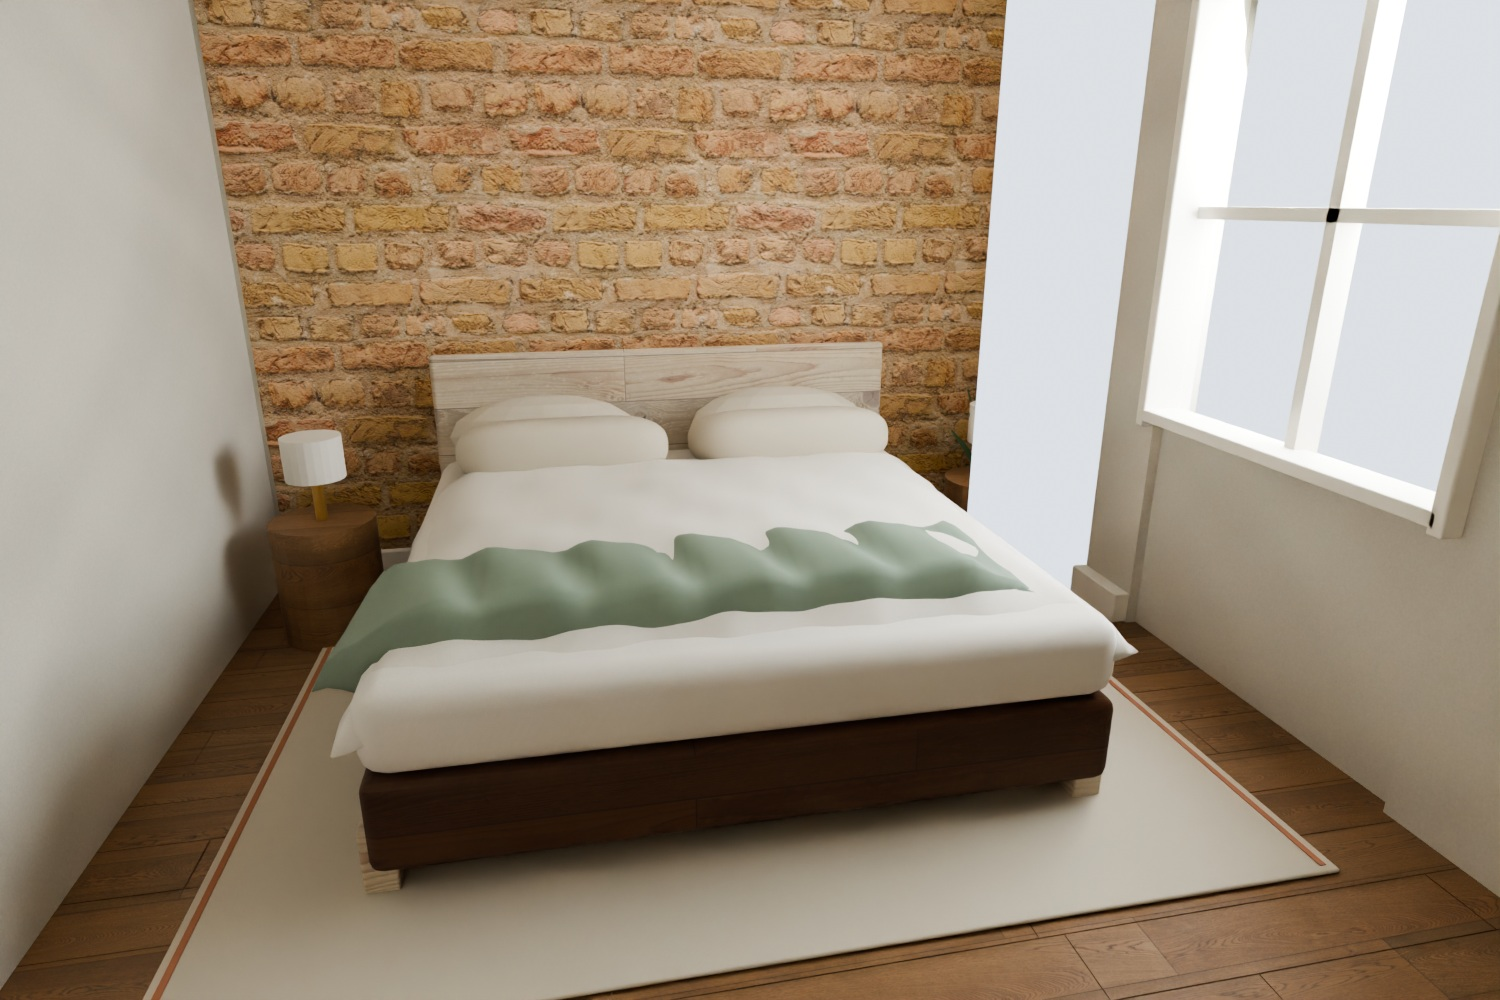
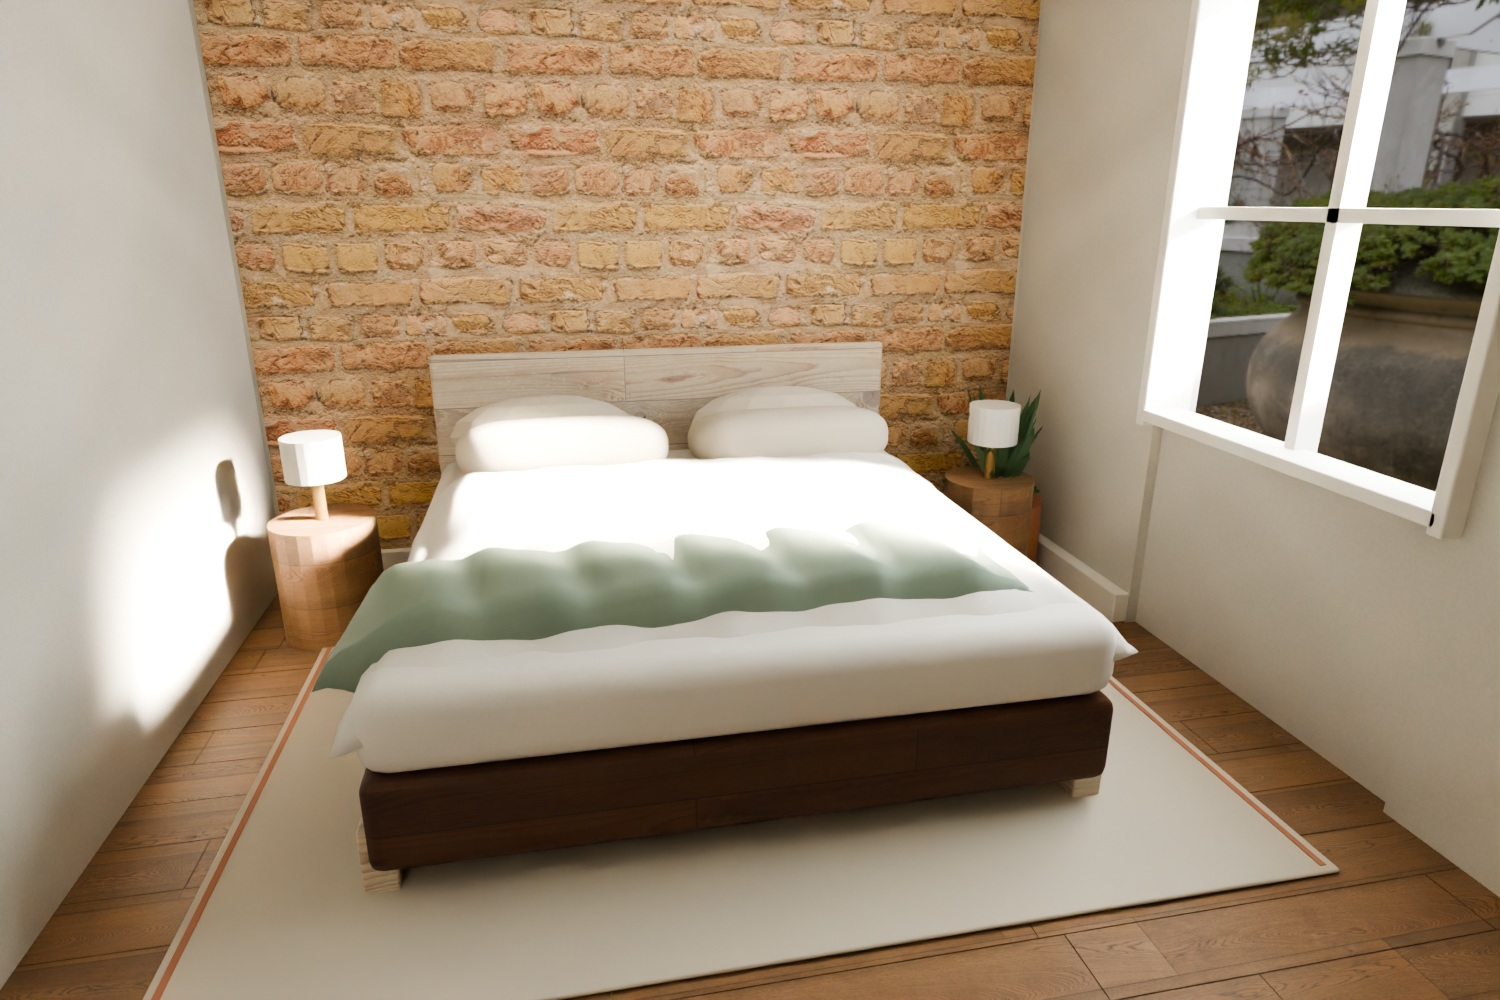
Offer regular double bed in rendered bedroom viewpoints

diff --git a/tour.js b/tour.js
@@ -9,18 +9,19 @@ scene.add(sphere);
 const files=window.tourFiles||{},asset=n=>files[n]||n;
 const rings=[],cache=new Map();let active='',request=0,yaw=0,pitch=-.20,awaiting=false;
 const alternateViews=new Set(['murphy','murphy-side','murphy-foot','hall','terrace','garden-seat','garden-path','passage']);
-let folded=false;
-function syncModel(){const f=$('modelFrame');if(f.contentWindow)f.contentWindow.postMessage({kind:'murphy-position',folded},'*')}
-function updateBedButton(id){const btn=$('fold');btn.hidden=!id.startsWith('murphy');btn.textContent=folded?'Open Murphy bed':'Close Murphy bed';btn.setAttribute('aria-pressed',String(folded))}
+let folded=false, regularDouble=false;
+function syncModel(){const f=$('modelFrame');if(f.contentWindow)f.contentWindow.postMessage({kind:'murphy-position',folded,regularDouble},'*')}
+function updateBedButton(id){const btn=$('fold');const inBedroom=id.startsWith('murphy');$('bedType').hidden=!inBedroom;$('bedType').value=regularDouble?'full':'murphy';btn.hidden=!inBedroom||regularDouble;btn.textContent=folded?'Open Murphy bed':'Close Murphy bed';btn.setAttribute('aria-pressed',String(folded))}
+$('bedType').onchange=async e=>{regularDouble=e.target.value==='full';folded=false;syncModel();await visit(active,true)};
 $('fold').onclick=async()=>{if(awaiting)return;folded=!folded;syncModel();await visit(active,true)};
-window.addEventListener('message',e=>{if(e.source!==$('modelFrame').contentWindow||e.data?.kind!=='model-bed-change')return;folded=e.data.folded===true;if(active)visit(active,true)});
+window.addEventListener('message',e=>{if(e.source!==$('modelFrame').contentWindow||e.data?.kind!=='model-bed-change')return;regularDouble=e.data.regularDouble===true;folded=!regularDouble&&e.data.folded===true;if(active)visit(active,true)});
 $('modelFrame').addEventListener('load',syncModel);
 const step=.020955,eye=1.60;
-const turns={"living:lounge": [145.0, 472.0], "living:entry": [328.2, 439.6], "living:kitchen": [346.0, 373.0], "living:windows": [200.8, 411.1], "living:dining": [220.0, 349.0], "living:sofa-end": [265.0, 439.0], "living:coat-closet": [401.0, 477.0], "lounge:living": [308.0, 419.0], "lounge:windows": [142.0, 473.0], "lounge:sofa-end": [263.1, 435.5], "entry:living": [354.0, 448.0], "entry:kitchen": [379.0, 407.0], "entry:hall": [581.0, 454.0], "entry:island": [465.0, 463.0], "entry:coat-closet": [401.0, 477.0], "entry:passage": [535.0, 443.0], "kitchen:entry": [429.3, 480.5], "kitchen:living": [308.0, 419.0], "kitchen:dining": [220.0, 349.0], "kitchen:island": [435.0, 448.7], "kitchen:sink-aisle": [411.0, 345.0], "hall:entry": [433.0, 479.0], "hall:bath": [581.0, 399.0], "hall:king": [632.0, 425.0], "hall:murphy": [595.0, 511.0], "hall:island": [465.0, 463.0], "hall:murphy-foot": [621.0, 498.0], "hall:vanity": [582.8, 383.6], "hall:passage": [535.0, 443.0], "hall:king-door": [650.3, 437.1], "bath:hall": [577.1, 400.8], "bath:vanity": [597.0, 351.0], "king:king-side": [779.0, 389.0], "king:hall": [641.1, 418.4], "king:terrace": [791.0, 456.0], "king:king-foot": [730.0, 430.0], "king:king-door": [657.1, 434.3], "king:garden-path": [817.0, 450.0], "king-side:king": [695.0, 481.0], "king-side:king-foot": [730.0, 430.0], "murphy:murphy-side": [768.0, 602.0], "murphy:hall": [599.0, 519.0], "murphy:murphy-foot": [710.0, 596.0], "murphy-side:murphy": [649.0, 605.0], "murphy-side:terrace": [791.0, 545.0], "murphy-side:murphy-foot": [710.0, 596.0], "murphy-side:garden-seat": [886.5, 541.5], "terrace:king": [810.5, 478.5], "terrace:murphy-side": [804.0, 545.0], "terrace:king-foot": [778.0, 503.2], "terrace:garden-seat": [900.0, 516.0], "terrace:garden-path": [867.0, 481.0], "windows:living": [308.0, 419.0], "windows:lounge": [218.0, 465.0], "windows:dining": [220.0, 349.0], "dining:living": [308.0, 419.0], "dining:windows": [76.0, 371.0], "dining:kitchen": [388.0, 370.0], "dining:sofa-end": [265.0, 439.0], "island:entry": [433.0, 479.0], "island:kitchen": [377.2, 378.9], "island:hall": [581.0, 454.0], "island:coat-closet": [401.0, 477.0], "king-foot:king": [695.0, 481.0], "king-foot:king-side": [779.0, 389.0], "king-foot:terrace": [784.1, 489.2], "king-foot:king-door": [651.0, 441.0], "murphy-foot:murphy": [649.0, 605.0], "murphy-foot:murphy-side": [768.0, 602.0], "murphy-foot:hall": [638.1, 511.0], "garden-seat:terrace": [836.0, 546.0], "garden-seat:murphy-side": [805.9, 588.0], "garden-seat:garden-path": [860.5, 487.2], "vanity:bath": [573.0, 359.0], "vanity:hall": [594.9, 390.8], "sofa-end:lounge": [218.0, 465.0], "sofa-end:living": [308.0, 419.0], "sofa-end:dining": [220.0, 349.0], "sink-aisle:kitchen": [388.0, 370.0], "sink-aisle:island": [427.7, 381.6], "coat-closet:entry": [433.0, 479.0], "coat-closet:living": [308.0, 419.0], "coat-closet:island": [465.0, 463.0], "passage:hall": [581.0, 454.0], "passage:entry": [433.0, 479.0], "king-door:king": [701.3, 467.8], "king-door:king-foot": [730.0, 430.0], "king-door:hall": [580.3, 450.1], "garden-path:garden-seat": [900.0, 516.0], "garden-path:terrace": [836.0, 546.0], "garden-path:king": [782.0, 449.0]};
+const turns={"living:lounge": [145.0, 472.0], "living:entry": [328.2, 439.6], "living:kitchen": [346.0, 373.0], "living:windows": [200.8, 411.1], "living:dining": [220.0, 349.0], "living:sofa-end": [265.0, 439.0], "living:coat-closet": [401.0, 477.0], "lounge:living": [308.0, 419.0], "lounge:windows": [142.0, 473.0], "lounge:sofa-end": [263.1, 435.5], "entry:living": [354.0, 448.0], "entry:kitchen": [379.0, 407.0], "entry:hall": [581.0, 454.0], "entry:island": [465.0, 463.0], "entry:coat-closet": [401.0, 477.0], "entry:passage": [535.0, 443.0], "kitchen:entry": [429.3, 480.5], "kitchen:living": [308.0, 419.0], "kitchen:dining": [220.0, 349.0], "kitchen:island": [435.0, 448.7], "kitchen:sink-aisle": [411.0, 345.0], "hall:entry": [433.0, 479.0], "hall:bath": [581.0, 399.0], "hall:king": [632.0, 425.0], "hall:murphy": [595.0, 511.0], "hall:island": [465.0, 463.0], "hall:murphy-foot": [621.0, 498.0], "hall:vanity": [582.8, 383.6], "hall:passage": [535.0, 443.0], "hall:king-door": [650.3, 437.1], "bath:hall": [577.1, 400.8], "bath:vanity": [597.0, 351.0], "king:king-side": [779.0, 389.0], "king:hall": [641.1, 418.4], "king:terrace": [791.0, 456.0], "king:king-foot": [730.0, 430.0], "king:king-door": [657.1, 434.3], "king:garden-path": [817.0, 450.0], "king-side:king": [695.0, 481.0], "king-side:king-foot": [730.0, 430.0], "murphy:murphy-side": [768.0, 602.0], "murphy:hall": [599.0, 519.0], "murphy:murphy-foot": [710.0, 596.0], "murphy-side:murphy": [649.0, 605.0], "murphy-side:terrace": [791.0, 545.0], "murphy-side:murphy-foot": [710.0, 596.0], "murphy-side:garden-seat": [886.5, 541.5], "terrace:king": [810.5, 478.5], "terrace:murphy-side": [804.0, 545.0], "terrace:king-foot": [778.0, 503.2], "terrace:garden-seat": [900.0, 516.0], "terrace:garden-path": [867.0, 481.0], "windows:living": [308.0, 419.0], "windows:lounge": [218.0, 465.0], "windows:dining": [212.0, 364.4], "dining:living": [308.0, 419.0], "dining:windows": [76.0, 371.0], "dining:kitchen": [388.0, 370.0], "dining:sofa-end": [265.0, 439.0], "island:entry": [433.0, 479.0], "island:kitchen": [377.2, 378.9], "island:hall": [581.0, 454.0], "island:coat-closet": [401.0, 477.0], "king-foot:king": [695.0, 481.0], "king-foot:king-side": [779.0, 389.0], "king-foot:terrace": [784.1, 489.2], "king-foot:king-door": [651.0, 441.0], "murphy-foot:murphy": [649.0, 605.0], "murphy-foot:murphy-side": [768.0, 602.0], "murphy-foot:hall": [638.1, 511.0], "garden-seat:terrace": [836.0, 546.0], "garden-seat:murphy-side": [805.9, 588.0], "garden-seat:garden-path": [860.5, 487.2], "vanity:bath": [573.0, 359.0], "vanity:hall": [594.9, 390.8], "sofa-end:lounge": [218.0, 465.0], "sofa-end:living": [308.0, 419.0], "sofa-end:dining": [220.0, 349.0], "sink-aisle:kitchen": [388.0, 370.0], "sink-aisle:island": [427.7, 381.6], "coat-closet:entry": [433.0, 479.0], "coat-closet:living": [308.0, 419.0], "coat-closet:island": [465.0, 463.0], "passage:hall": [581.0, 454.0], "passage:entry": [433.0, 479.0], "king-door:king": [701.3, 467.8], "king-door:king-foot": [730.0, 430.0], "king-door:hall": [580.3, 450.1], "garden-path:garden-seat": [900.0, 516.0], "garden-path:terrace": [836.0, 546.0], "garden-path:king": [782.0, 449.0]};
 function textureFor(id){if(!cache.has(id))cache.set(id,loader.loadAsync(asset('pan-'+id+'.jpg')).then(t=>{t.colorSpace=THREE.SRGBColorSpace;return t}).catch(e=>{cache.delete(id);throw e}));return cache.get(id)}
 async function visit(id,keepHeading=false){if(!points[id])return;stopGlide();const seq=++request;awaiting=true;$('instruction').textContent='Loading '+points[id].label+'…';
- try{const imageId=id+(folded&&alternateViews.has(id)?'-closed':'');const t=await textureFor(imageId);if(seq!==request)return;sphere.material.map=t;sphere.material.needsUpdate=true;active=id;awaiting=false;updateBedButton(id);for(const [k,v] of cache){if(cache.size<=4)break;if(k===imageId)continue;cache.delete(k);v.then(old=>{if(old!==sphere.material.map)old.dispose()}).catch(()=>{})}const p=points[id];if(!keepHeading){yaw=Math.atan2(p.aim[0]-p.pos[0],p.pos[1]-p.aim[1]);pitch=id.startsWith('murphy')?-.32:-.20}
- const clearance=id.startsWith('king')?' · About 28 in beside the mattress':id.startsWith('murphy')?(folded?' · Murphy bed up':' · About 44 in across the walkway'):'';$('place').textContent=p.label+clearance;history.replaceState(null,'','#'+id);$('rooms').value=id;$('instruction').textContent='Tap a floor circle to move · Drag to look around';
+ try{const imageId=id+(alternateViews.has(id)?(regularDouble?'-double':folded?'-closed':''):'');const t=await textureFor(imageId);if(seq!==request)return;sphere.material.map=t;sphere.material.needsUpdate=true;active=id;awaiting=false;updateBedButton(id);for(const [k,v] of cache){if(cache.size<=4)break;if(k===imageId)continue;cache.delete(k);v.then(old=>{if(old!==sphere.material.map)old.dispose()}).catch(()=>{})}const p=points[id];if(!keepHeading){yaw=Math.atan2(p.aim[0]-p.pos[0],p.pos[1]-p.aim[1]);pitch=id.startsWith('murphy')?-.32:-.20}
+ const clearance=id.startsWith('king')?' · About 28 in beside the mattress':id.startsWith('murphy')?(regularDouble?' · Double bed':folded?' · Murphy bed up':' · About 44 in across the walkway'):'';$('place').textContent=(regularDouble?p.label.replace('Murphy bedroom','Small bedroom').replace('Murphy bed','double bed'):p.label)+clearance;history.replaceState(null,'','#'+id);$('rooms').value=id;$('instruction').textContent='Tap a floor circle to move · Drag to look around';
  $('spots').replaceChildren();rings.length=0;for(const next of p.near){const pt=turns[id+':'+next]||points[next].pos,el=document.createElement('button');el.className='hotspot';el.setAttribute('aria-label',points[next].label);el.onclick=()=>visit(next,true);$('spots').append(el);rings.push([el,new THREE.Vector3((pt[0]-p.pos[0])*step,-eye+.02,(pt[1]-p.pos[1])*step)])}
  }catch(e){if(seq===request){awaiting=false;$('instruction').textContent='View unavailable. Choose another room.'}}}
 for(const [k,p] of Object.entries(points))$('rooms').add(new Option(p.label,k));$('rooms').onchange=e=>visit(e.target.value);
@@ -69,7 +70,7 @@ canvas.onpointerup=canvas.onpointercancel=canvas.onlostpointercapture=e=>{
 canvas.onwheel=e=>{e.preventDefault();zoom(cam.fov+e.deltaY*.045)};
 canvas.onkeydown=e=>{const k=e.key;if(k.startsWith('Arrow')){stopGlide();e.preventDefault();if(k==='ArrowLeft')yaw-=.12;if(k==='ArrowRight')yaw+=.12;if(k==='ArrowUp')pitch=Math.min(1.48,pitch+.10);if(k==='ArrowDown')pitch=Math.max(-1.48,pitch-.10)}};
 function showPhoto(){let v=$('shots').value;$('photo').src=asset(v+'-render.jpg');$('photo').alt=$('shots').selectedOptions[0].text+' eye-level Blender render'}
-$('photos').onclick=()=>{$('shots').value=active.startsWith('murphy')?(folded?'murphy-closed':'murphy'):active.startsWith('king')?'king':['garden-seat','terrace','garden-path'].includes(active)?'garden':['kitchen','island','sink-aisle'].includes(active)?'kitchen':['bath','vanity'].includes(active)?'bath':'living';showPhoto();$('gallery').showModal()};$('shots').onchange=showPhoto;
+$('photos').onclick=()=>{$('shots').value=active.startsWith('murphy')?(regularDouble?'double':folded?'murphy-closed':'murphy'):active.startsWith('king')?'king':['garden-seat','terrace','garden-path'].includes(active)?'garden':['kitchen','island','sink-aisle'].includes(active)?'kitchen':['bath','vanity'].includes(active)?'bath':'living';showPhoto();$('gallery').showModal()};$('shots').onchange=showPhoto;
 $('model').onclick=()=>{const f=$('modelFrame');if(!f.src&&!f.srcdoc){if(window.modelDocument)f.srcdoc=window.modelDocument;else f.src='model-view.html'}$('modelPanel').hidden=false};$('return').onclick=()=>{$('modelPanel').hidden=true;canvas.focus()};
 function resize(){cam.aspect=innerWidth/innerHeight;cam.updateProjectionMatrix();renderer.setSize(innerWidth,innerHeight)}onresize=resize;resize();
 const tmp=new THREE.Vector3();function draw(){requestAnimationFrame(draw);if(!$('modelPanel').hidden||$('gallery').open)return;advanceGlide(performance.now());cam.lookAt(Math.sin(yaw)*Math.cos(pitch),Math.sin(pitch),-Math.cos(yaw)*Math.cos(pitch));cam.updateMatrixWorld();

diff --git a/index.html b/index.html
@@ -1,3 +1,3 @@
 <!doctype html><html lang="en"><head><meta charset="utf-8"><meta name="viewport" content="width=device-width,initial-scale=1"><title>375 Clinton St · Apartment tour</title><style>
 *{box-sizing:border-box}body{margin:0;background:#282a25;color:#fff;font:14px -apple-system,BlinkMacSystemFont,"Helvetica Neue",sans-serif}#pano{position:fixed;inset:0;width:100%;height:100%;touch-action:none;cursor:grab}#pano:active{cursor:grabbing}header{position:fixed;top:0;left:0;width:100%;pointer-events:none;padding:22px 26px 45px;background:linear-gradient(#17181199,transparent)}h1{margin:0;font:normal clamp(27px,4vw,43px) Georgia,serif;letter-spacing:-.04em}header p{margin:4px 0}footer{position:fixed;bottom:max(18px,env(safe-area-inset-bottom));left:50%;transform:translateX(-50%);width:max-content;max-width:96vw;text-align:center}nav{background:#fcfaf4f2;color:#26372c;display:flex;align-items:center;gap:5px;padding:5px;border-radius:12px;box-shadow:0 3px 15px #17191326}button,select{font:inherit;border:0;border-radius:8px;padding:11px;color:inherit;background:transparent;cursor:pointer}button:focus-visible,select:focus-visible{outline:2px solid #c49456}nav button:hover,nav select:hover{background:#dce0d6}#instruction{background:#20261ec9;color:white;padding:5px 11px;border-radius:20px;display:inline-block;font-size:12px;margin:6px}.hotspot{position:fixed;left:0;top:0;transform:translate(-50%,-50%);width:52px;height:40px;display:grid;place-items:center;background:transparent;padding:0}.hotspot:before{content:'';display:block;width:33px;height:15px;border:3px solid white;box-shadow:0 0 0 1px #3336,0 2px 5px #0007,inset 0 0 5px #0005;background:#fff4;border-radius:50%}.hotspot:hover:after,.hotspot:focus-visible:after{content:attr(aria-label);position:absolute;bottom:36px;background:#263529ee;color:#fff;font-size:12px;white-space:nowrap;border-radius:5px;padding:5px 7px}dialog{background:#f7f4eb;color:#243128;border:none;padding:10px;border-radius:12px;max-width:96vw}dialog::backdrop{background:#161c18a8}dialog img{display:block;max-width:91vw;max-height:73vh;border-radius:5px}dialog form{display:flex;align-items:center;justify-content:space-between}#modelPanel{position:fixed;inset:0;background:#ebe8df}#modelPanel iframe{width:100%;height:100%;border:0}#return{position:absolute;left:15px;bottom:18px;background:#253b31;color:white}button[hidden],[hidden]{display:none!important}@media(max-width:620px){header{padding:16px}button,select{font-size:12px;padding:9px 6px}.hotspot{width:46px}#return{bottom:105px}nav{gap:1px}}
-@media(max-width:650px){nav{flex-wrap:wrap;justify-content:center}footer{width:min(96vw,430px)}}#fold{background:#e0e8d9}</style></head><body><canvas id="pano" tabindex="0" aria-label="360 degree apartment tour"></canvas><header><h1>375 Clinton St</h1><p id="place"></p></header><div id="spots"></div><footer><div id="instruction" role="status">Loading the room…</div><nav><select id="rooms" aria-label="Choose a viewpoint"></select><button id="fold" hidden>Close Murphy bed</button><button id="photos">Room renders</button><button id="model">3D model</button><button id="minus" aria-label="Zoom out">−</button><button id="plus" aria-label="Zoom in">+</button></nav></footer><dialog id="gallery"><img id="photo" alt=""><form method="dialog"><select id="shots" aria-label="Choose a room render"><option value="king">King bedroom</option><option value="murphy">Murphy bed down</option><option value="murphy-closed">Murphy bed up</option><option value="bath">Bathroom</option><option value="living">Living room</option><option value="kitchen">Kitchen and stools</option><option value="garden">Private garden</option><option value="range">Stove and upper cabinets</option></select><button>Back to tour</button></form></dialog><section id="modelPanel" hidden><iframe title="Free walking and overhead apartment model" id="modelFrame"></iframe><button id="return">Back to rendered tour</button></section><script src="three.js"></script><script src="tour.js"></script></body></html>
+@media(max-width:650px){nav{flex-wrap:wrap;justify-content:center}footer{width:min(96vw,430px)}}#fold{background:#e0e8d9}@media(max-width:640px){nav{flex-wrap:wrap;justify-content:center;max-width:96vw;width:max-content}#rooms{max-width:135px}}</style></head><body><canvas id="pano" tabindex="0" aria-label="360 degree apartment tour"></canvas><header><h1>375 Clinton St</h1><p id="place"></p></header><div id="spots"></div><footer><div id="instruction" role="status">Loading the room…</div><nav><select id="rooms" aria-label="Choose a viewpoint"></select><select id="bedType" aria-label="Small bedroom bed" hidden><option value="murphy">Murphy bed</option><option value="full">Double bed</option></select><button id="fold" hidden>Close Murphy bed</button><button id="photos">Room renders</button><button id="model">3D model</button><button id="minus" aria-label="Zoom out">−</button><button id="plus" aria-label="Zoom in">+</button></nav></footer><dialog id="gallery"><img id="photo" alt=""><form method="dialog"><select id="shots" aria-label="Choose a room render"><option value="king">King bedroom</option><option value="murphy">Murphy bed down</option><option value="double">Regular double bed</option><option value="murphy-closed">Murphy bed up</option><option value="bath">Bathroom</option><option value="living">Living room</option><option value="kitchen">Kitchen and stools</option><option value="garden">Private garden</option><option value="range">Stove and upper cabinets</option></select><button>Back to tour</button></form></dialog><section id="modelPanel" hidden><iframe title="Free walking and overhead apartment model" id="modelFrame"></iframe><button id="return">Back to rendered tour</button></section><script src="three.js"></script><script src="tour.js"></script></body></html>

diff --git a/tour.html b/tour.html
@@ -1,3 +1,3 @@
 <!doctype html><html lang="en"><head><meta charset="utf-8"><meta name="viewport" content="width=device-width,initial-scale=1"><title>375 Clinton St · Apartment tour</title><style>
 *{box-sizing:border-box}body{margin:0;background:#282a25;color:#fff;font:14px -apple-system,BlinkMacSystemFont,"Helvetica Neue",sans-serif}#pano{position:fixed;inset:0;width:100%;height:100%;touch-action:none;cursor:grab}#pano:active{cursor:grabbing}header{position:fixed;top:0;left:0;width:100%;pointer-events:none;padding:22px 26px 45px;background:linear-gradient(#17181199,transparent)}h1{margin:0;font:normal clamp(27px,4vw,43px) Georgia,serif;letter-spacing:-.04em}header p{margin:4px 0}footer{position:fixed;bottom:max(18px,env(safe-area-inset-bottom));left:50%;transform:translateX(-50%);width:max-content;max-width:96vw;text-align:center}nav{background:#fcfaf4f2;color:#26372c;display:flex;align-items:center;gap:5px;padding:5px;border-radius:12px;box-shadow:0 3px 15px #17191326}button,select{font:inherit;border:0;border-radius:8px;padding:11px;color:inherit;background:transparent;cursor:pointer}button:focus-visible,select:focus-visible{outline:2px solid #c49456}nav button:hover,nav select:hover{background:#dce0d6}#instruction{background:#20261ec9;color:white;padding:5px 11px;border-radius:20px;display:inline-block;font-size:12px;margin:6px}.hotspot{position:fixed;left:0;top:0;transform:translate(-50%,-50%);width:52px;height:40px;display:grid;place-items:center;background:transparent;padding:0}.hotspot:before{content:'';display:block;width:33px;height:15px;border:3px solid white;box-shadow:0 0 0 1px #3336,0 2px 5px #0007,inset 0 0 5px #0005;background:#fff4;border-radius:50%}.hotspot:hover:after,.hotspot:focus-visible:after{content:attr(aria-label);position:absolute;bottom:36px;background:#263529ee;color:#fff;font-size:12px;white-space:nowrap;border-radius:5px;padding:5px 7px}dialog{background:#f7f4eb;color:#243128;border:none;padding:10px;border-radius:12px;max-width:96vw}dialog::backdrop{background:#161c18a8}dialog img{display:block;max-width:91vw;max-height:73vh;border-radius:5px}dialog form{display:flex;align-items:center;justify-content:space-between}#modelPanel{position:fixed;inset:0;background:#ebe8df}#modelPanel iframe{width:100%;height:100%;border:0}#return{position:absolute;left:15px;bottom:18px;background:#253b31;color:white}button[hidden],[hidden]{display:none!important}@media(max-width:620px){header{padding:16px}button,select{font-size:12px;padding:9px 6px}.hotspot{width:46px}#return{bottom:105px}nav{gap:1px}}
-@media(max-width:650px){nav{flex-wrap:wrap;justify-content:center}footer{width:min(96vw,430px)}}#fold{background:#e0e8d9}</style></head><body><canvas id="pano" tabindex="0" aria-label="360 degree apartment tour"></canvas><header><h1>375 Clinton St</h1><p id="place"></p></header><div id="spots"></div><footer><div id="instruction" role="status">Loading the room…</div><nav><select id="rooms" aria-label="Choose a viewpoint"></select><button id="fold" hidden>Close Murphy bed</button><button id="photos">Room renders</button><button id="model">3D model</button><button id="minus" aria-label="Zoom out">−</button><button id="plus" aria-label="Zoom in">+</button></nav></footer><dialog id="gallery"><img id="photo" alt=""><form method="dialog"><select id="shots" aria-label="Choose a room render"><option value="king">King bedroom</option><option value="murphy">Murphy bed down</option><option value="murphy-closed">Murphy bed up</option><option value="bath">Bathroom</option><option value="living">Living room</option><option value="kitchen">Kitchen and stools</option><option value="garden">Private garden</option><option value="range">Stove and upper cabinets</option></select><button>Back to tour</button></form></dialog><section id="modelPanel" hidden><iframe title="Free walking and overhead apartment model" id="modelFrame"></iframe><button id="return">Back to rendered tour</button></section><script src="three.js"></script><script src="tour.js"></script></body></html>
+@media(max-width:650px){nav{flex-wrap:wrap;justify-content:center}footer{width:min(96vw,430px)}}#fold{background:#e0e8d9}@media(max-width:640px){nav{flex-wrap:wrap;justify-content:center;max-width:96vw;width:max-content}#rooms{max-width:135px}}</style></head><body><canvas id="pano" tabindex="0" aria-label="360 degree apartment tour"></canvas><header><h1>375 Clinton St</h1><p id="place"></p></header><div id="spots"></div><footer><div id="instruction" role="status">Loading the room…</div><nav><select id="rooms" aria-label="Choose a viewpoint"></select><select id="bedType" aria-label="Small bedroom bed" hidden><option value="murphy">Murphy bed</option><option value="full">Double bed</option></select><button id="fold" hidden>Close Murphy bed</button><button id="photos">Room renders</button><button id="model">3D model</button><button id="minus" aria-label="Zoom out">−</button><button id="plus" aria-label="Zoom in">+</button></nav></footer><dialog id="gallery"><img id="photo" alt=""><form method="dialog"><select id="shots" aria-label="Choose a room render"><option value="king">King bedroom</option><option value="murphy">Murphy bed down</option><option value="double">Regular double bed</option><option value="murphy-closed">Murphy bed up</option><option value="bath">Bathroom</option><option value="living">Living room</option><option value="kitchen">Kitchen and stools</option><option value="garden">Private garden</option><option value="range">Stove and upper cabinets</option></select><button>Back to tour</button></form></dialog><section id="modelPanel" hidden><iframe title="Free walking and overhead apartment model" id="modelFrame"></iframe><button id="return">Back to rendered tour</button></section><script src="three.js"></script><script src="tour.js"></script></body></html>
